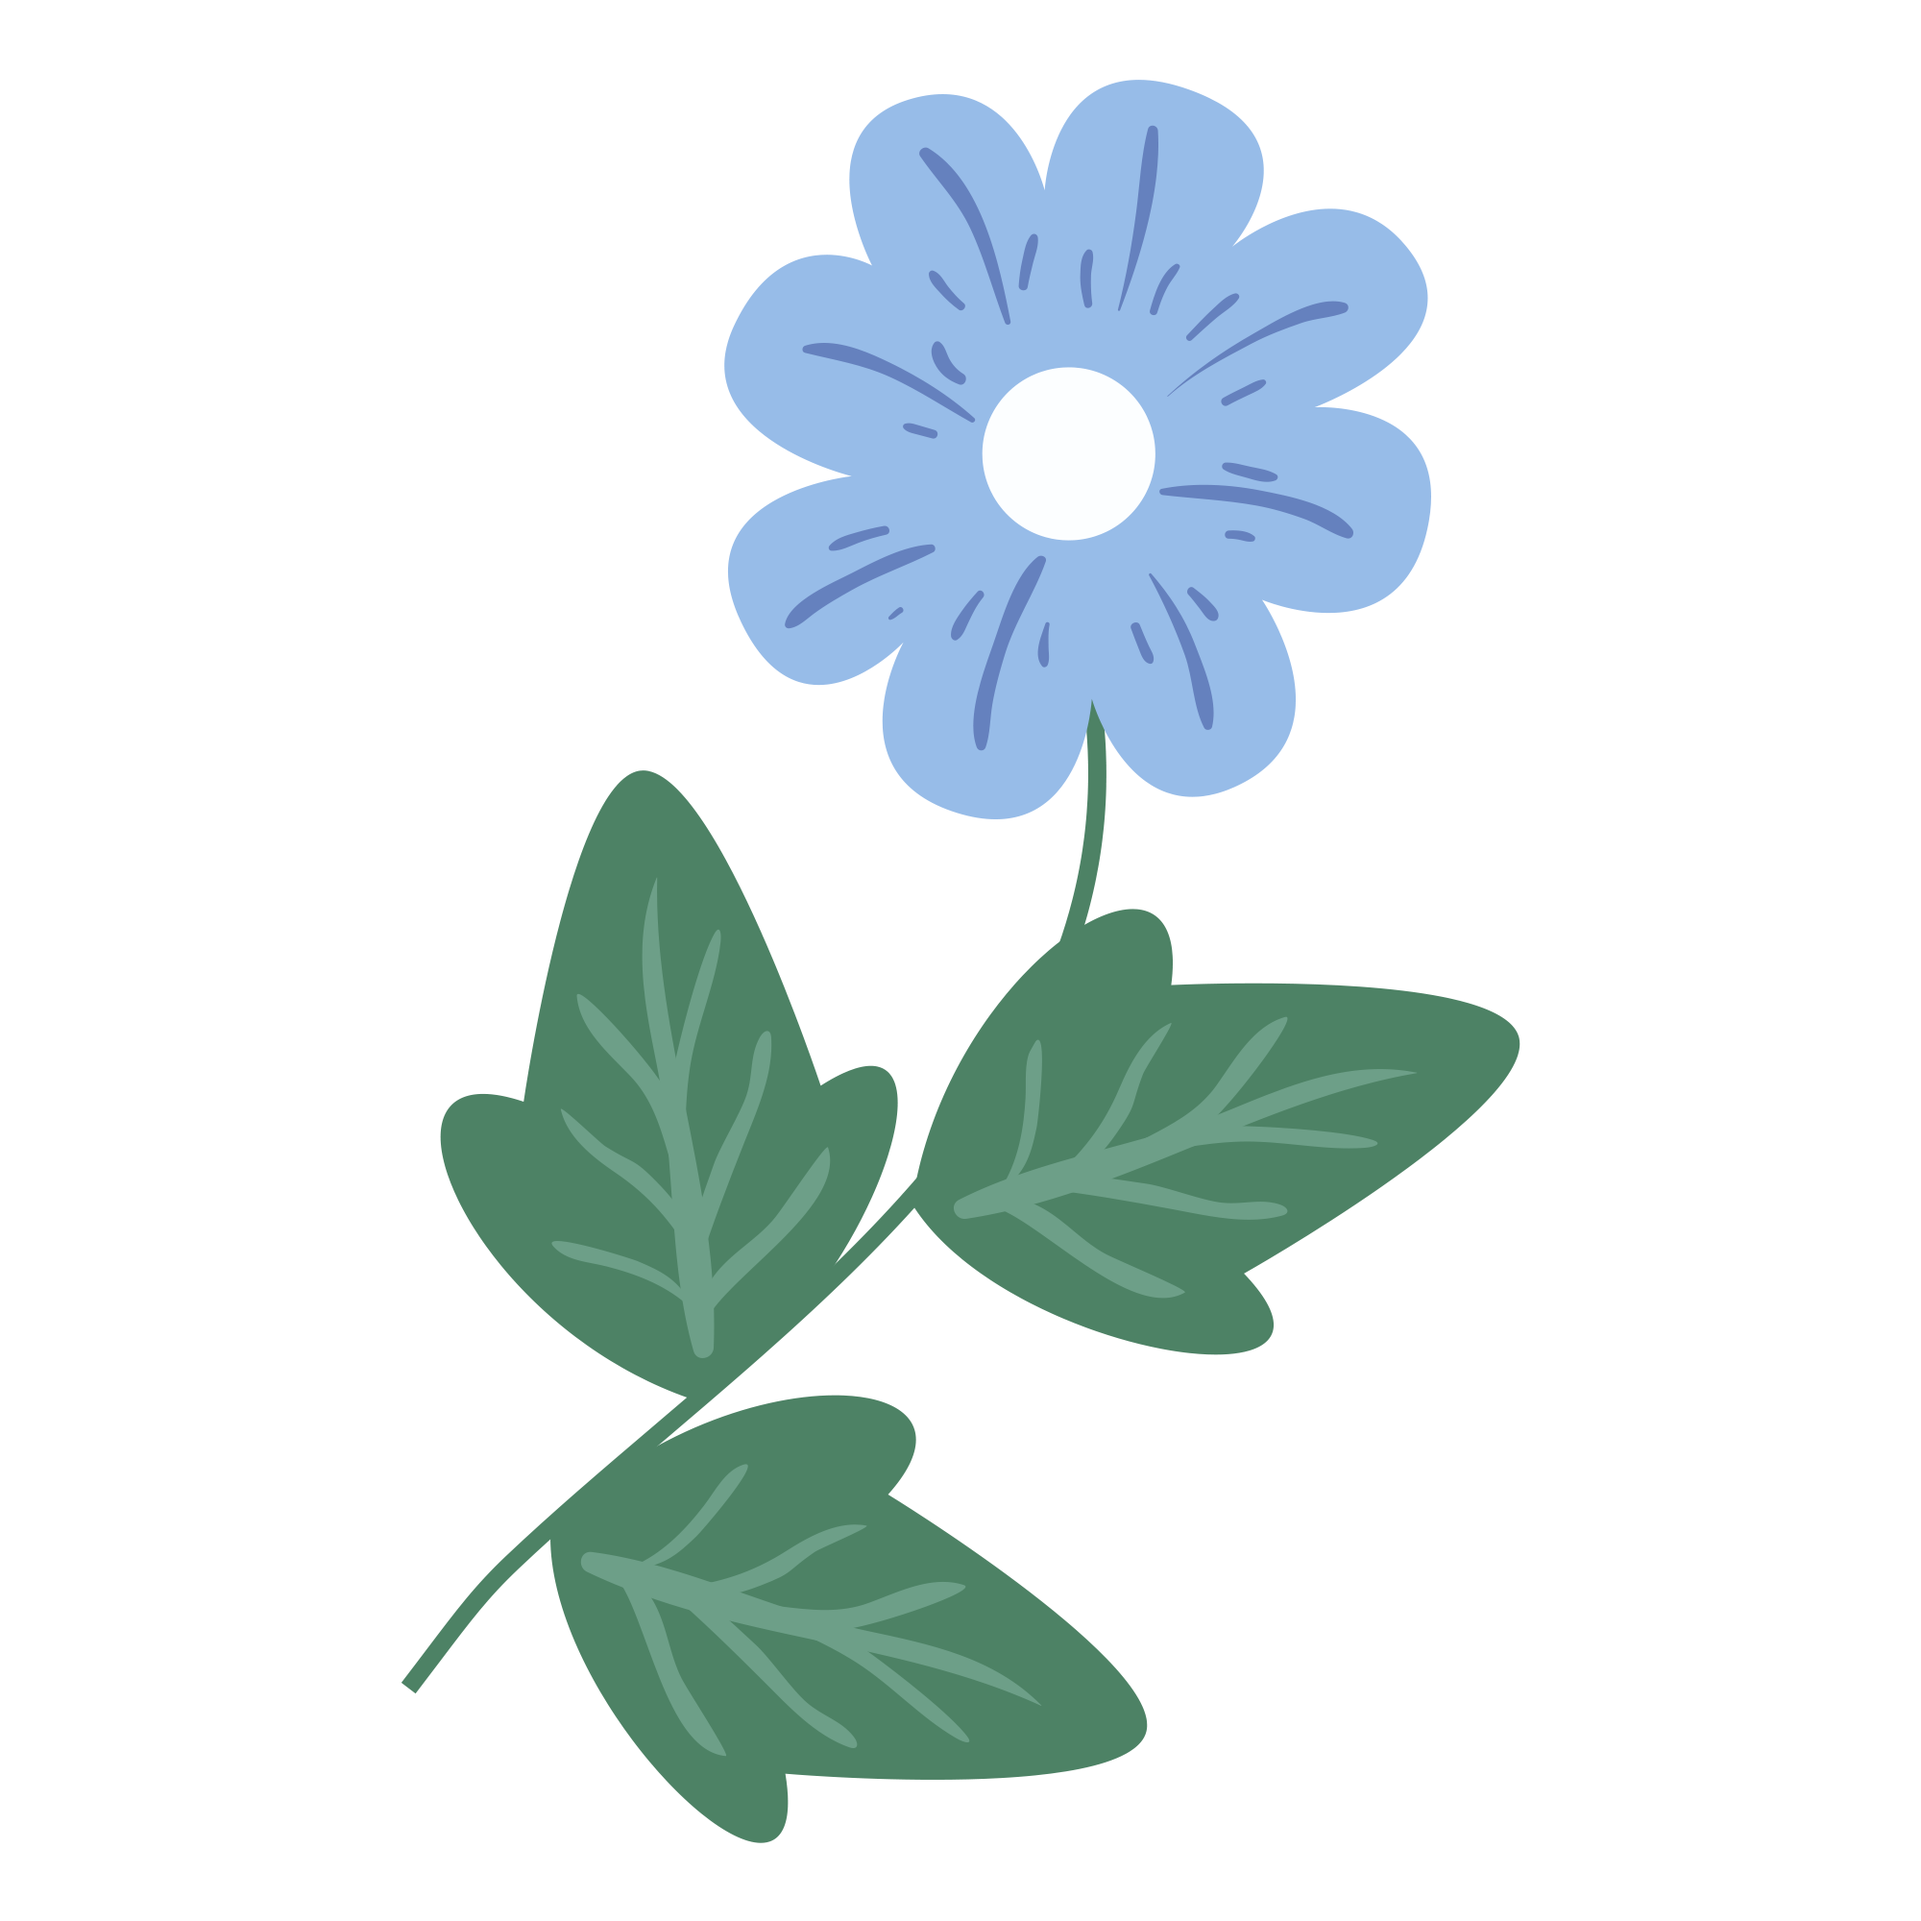
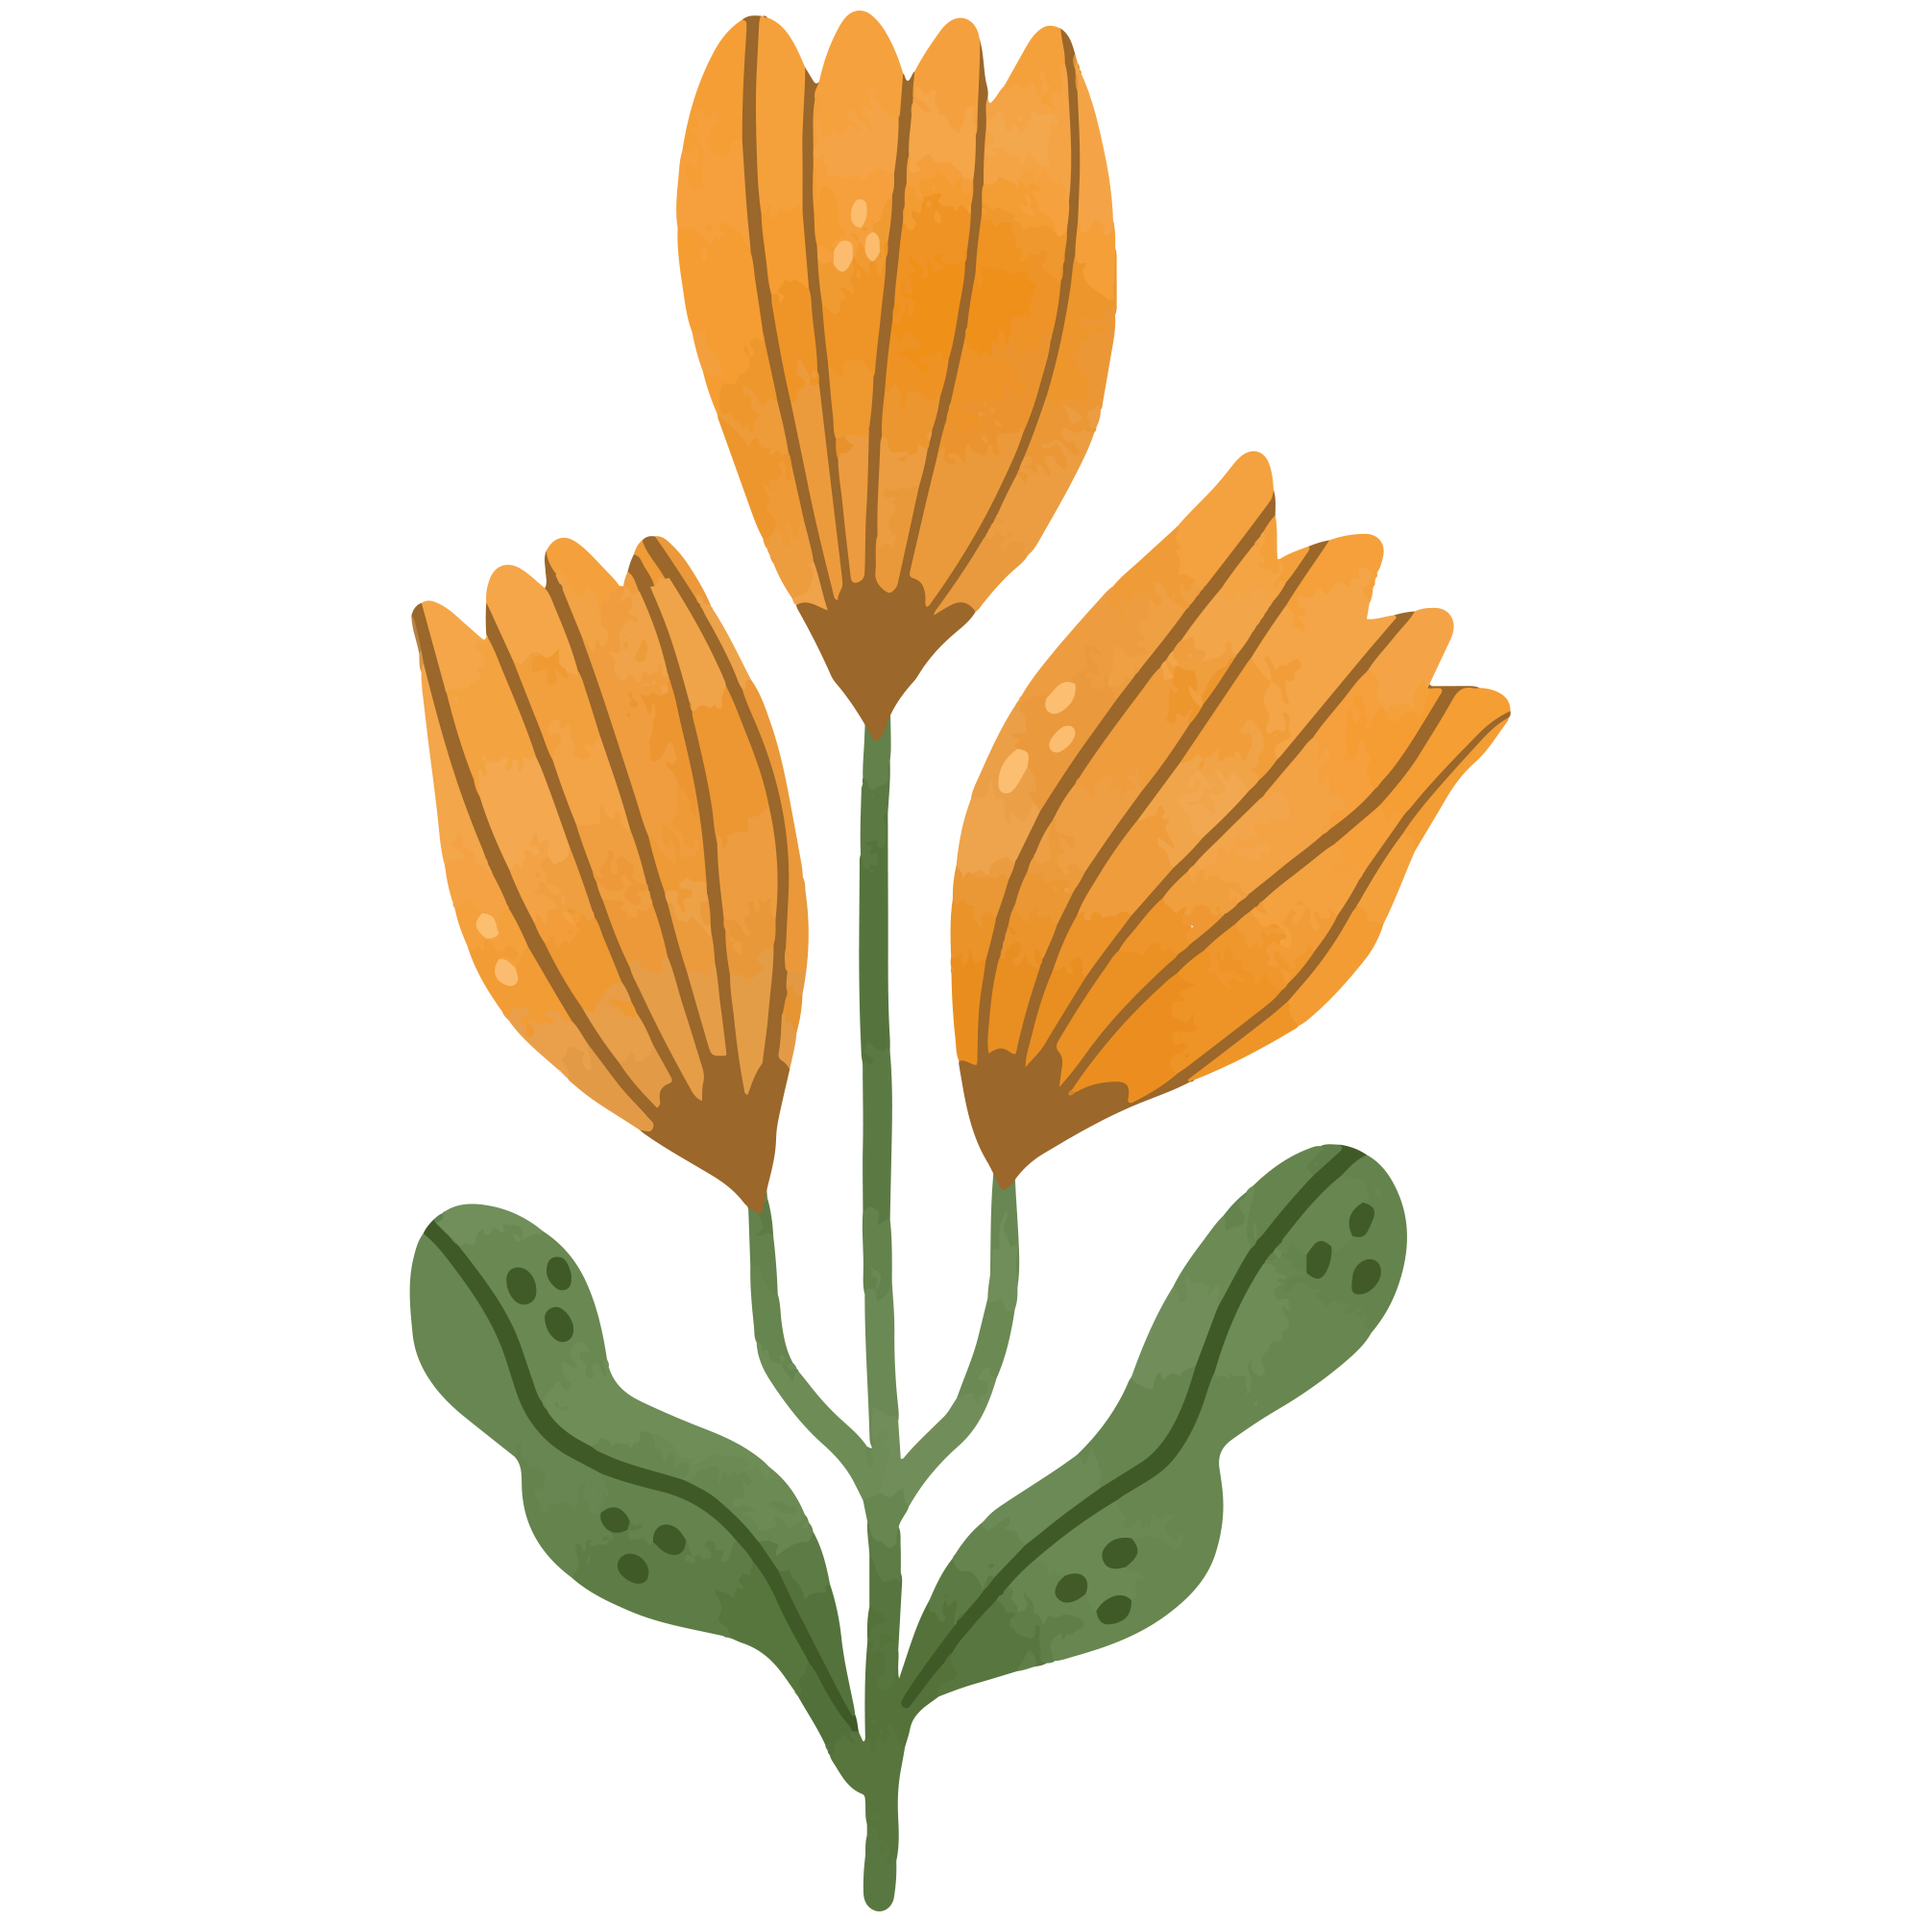
cambios de interfazzz

diff --git a/static/css/stilos.css b/static/css/stilos.css
@@ -1,16 +1,25 @@
-:root {
-    --primario: #8e44ad;
-    --secundario: #9b59b6;
-    --dorado: #f1c40f;
-    --oscuro: #2c3e50;
-    --claro: #f8f9fa;
-    --borde: #dcdde1;
-}
+ :root {
+
+            --crema: #f7f1e7;
+            --crema-claro: #fffdf9;
+            --crema-oscuro: #eee4d5;
+
+            --marron: #654b3c;
+            --marron-oscuro: #49352a;
+
+            --dorado: #b9904d;
+            --dorado-claro: #d5b77d;
+
+            --texto: #3d3029;
+            --texto-suave: #75675e;
+
+            --borde: #dfd0bc;
+        }
 
 body {
     font-family: 'Segoe UI', sans-serif;
-    background: linear-gradient(135deg, #f5f6fa 0%, #dcdde1 100%);
-    color: var(--oscuro);
+    background: linear-gradient(135deg, var(--crema-claro), var(--crema));
+    color: var(--texto);
     margin: 0;
     padding: 20px;
     min-height: 100vh;
@@ -20,11 +29,11 @@ body {
 }
 
 header { text-align: center; margin-bottom: 25px; }
-h1 { color: #4a148c; margin: 5px 0;}
-h2 { color: #6a1b9a; font-weight: 400;}
+h1 { color: var(--marron-oscuro); margin: 5px 0;}
+h2 { color: var(--marron-oscuro); font-weight: 400;}
 
 .contenedor-login, .contenedor-planilla, .contenedor-podio {
-    background: #ffffff;
+    background: var(--crema-claro);
     padding: 30px;
     border-radius: 14px;
     box-shadow: 0 8px 24px rgba(0,0,0,0.12);
@@ -34,7 +43,7 @@ h2 { color: #6a1b9a; font-weight: 400;}
 
 .contenedor-login { max-width: 480px; text-align: center; }
 .contenedor-planilla { max-width: 900px; }
-.contenedor-podio { max-width: 800px; }
+.contenedor-podio { max-width: 400px; }
 
 .estado-votacion { margin: 15px 0; }
 progress { width: 100%; height: 12px; border-radius: 6px; }
@@ -46,9 +55,9 @@ input[type="number"] { width: 65px; text-align: center; }
 .btn-primario, .btn-secundario, .btn-peligro {
     padding: 12px 20px; border-radius: 6px; border: none; font-size: 1rem; font-weight: bold; cursor: pointer; text-decoration: none; display: inline-block;
 }
-.btn-primario { background: var(--primario); color: white; }
-.btn-primario:hover { background: #732d91; }
-.btn-secundario { background: #f1f2f6; color: var(--oscuro); }
+.btn-primario { background: var(--marron); color: white; }
+.btn-primario:hover { background:var(--marron-oscuro); }
+.btn-secundario { background: var(--crema-oscuro); color: var(--crema-oscuro); }
 .btn-peligro { background: #e74c3c; color: white; font-size: 0.8rem; padding: 5px 10px; margin-top: 10px;}
 
 .alerta { background: #062B69; padding: 10px; border-radius: 6px; margin: 10px 0; font-weight: 500; }
@@ -62,17 +71,14 @@ th { background-color: #f1f2f6; }
 /* Vista Podio */
 .podio-visual { display: flex; justify-content: center; gap: 20px; margin: 30px 0; flex-wrap: wrap; }
 .tarjeta-titulo {
-    background: #fff; border: 2px solid var(--borde); border-radius: 10px; padding: 25px; width: 220px; text-align: center; box-shadow: 0 4px 8px rgba(0,0,0,0.05);
+    background: var(--crema); border: 2px solid var(--borde); border-radius: 10px; padding: 25px; width: 220px; text-align: center; box-shadow: 0 4px 8px rgba(0,0,0,0.05);
 }
-.tarjeta-titulo:nth-child(1) { border-color: var(--dorado); background: #fffdf0; transform: scale(1.05); }
+.tarjeta-titulo:nth-child(1) { border-color: var(--marron-oscuro); background: #fffdfb; transform: scale(1.05); }
 
 .titulo-honor { font-size: 1.2rem; font-weight: bold; color: var(--primario); margin-bottom: 10px; }
 .puntos-finales { font-size: 0.9rem; background: #dfe4ea; padding: 6px; border-radius: 5px; margin-top: 10px; }
-.controles-finales { text-align: center; }
-/* ==========================================
-   RAMAS DECORATIVAS
-========================================== */
-
+.controles-finales { text-align: center; background: #dfe4ea}
+/*RAMAS DECORATIVAS*/
 .rama {
     position: fixed;
     width: 280px;
@@ -81,29 +87,16 @@ th { background-color: #f1f2f6; }
     pointer-events: none;
     opacity: 0.9;
 }
-
-
-/* Rama izquierda */
-
 .rama-izquierda {
     left: -35px;
     bottom: -20px;
 }
-
-
-/* Rama derecha */
-
 .rama-derecha {
     right: -35px;
     bottom: -20px;
     transform: scaleX(-1);
 }
-
-
-/* ==========================================
-   RESPONSIVE - CELULAR
-========================================== */
-
+/* RESPONSIVE CELULAR*/
 @media (max-width: 700px) {
 
     .rama {

diff --git a/templates/podio.html b/templates/podio.html
@@ -97,11 +97,11 @@
         {% endif %}
 
         <!-- Menú Inferior de Navegación -->
-        <div class="bg-white p-4 shadow-lg rounded-2xl border border-blue-100 flex justify-center gap-4 items-center">
+        <div class="bg-white p-4 shadow-lg rounded-2xl border border-brown-600 flex justify-center gap-4 items-center">
             <a href="/" class="bg-gray-800 hover:bg-gray-900 text-white font-semibold py-2.5 px-6 rounded-xl shadow text-sm transition-colors">
                 Volver al Panel Principal
             </a>
-            <a href="{{ url_for('descargar_pdf') }}" class="bg-blue-600 hover:bg-blue-700 text-white font-semibold py-2.5 px-6 rounded-xl shadow text-sm transition-colors">
+            <a href="{{ url_for('descargar_pdf') }}" style="--bg-main: #fffdf9 ; --bg-hover: #49352a;" class="inline-block bg-[var(--bg-main)] hover:bg-[var(--bg-hover)] text-black font-semibold py-2.5 px-6 rounded-xl shadow text-sm transition-colors">
                 📄 Descargar PDF
             </a>
         </div>

diff --git a/templates/login_jurado.html b/templates/login_jurado.html
@@ -294,7 +294,7 @@
 
             position: absolute;
 
-            width: 300px;
+            width: 500px;
 
             height: auto;
 
@@ -429,9 +429,9 @@
 
             position: relative;
 
-            width: 50px;
+            width: 180px;
 
-            height: 42px;
+            height: 28px;
 
             margin: -8px auto 10px;
 
@@ -441,11 +441,11 @@
 
         .icono-persona::before {
 
-            content: "♟";
+            content: "♟♟♟";
 
             color: var(--dorado);
 
-            font-size: 34px;
+            font-size: 40px;
 
             line-height: 1;
         }
